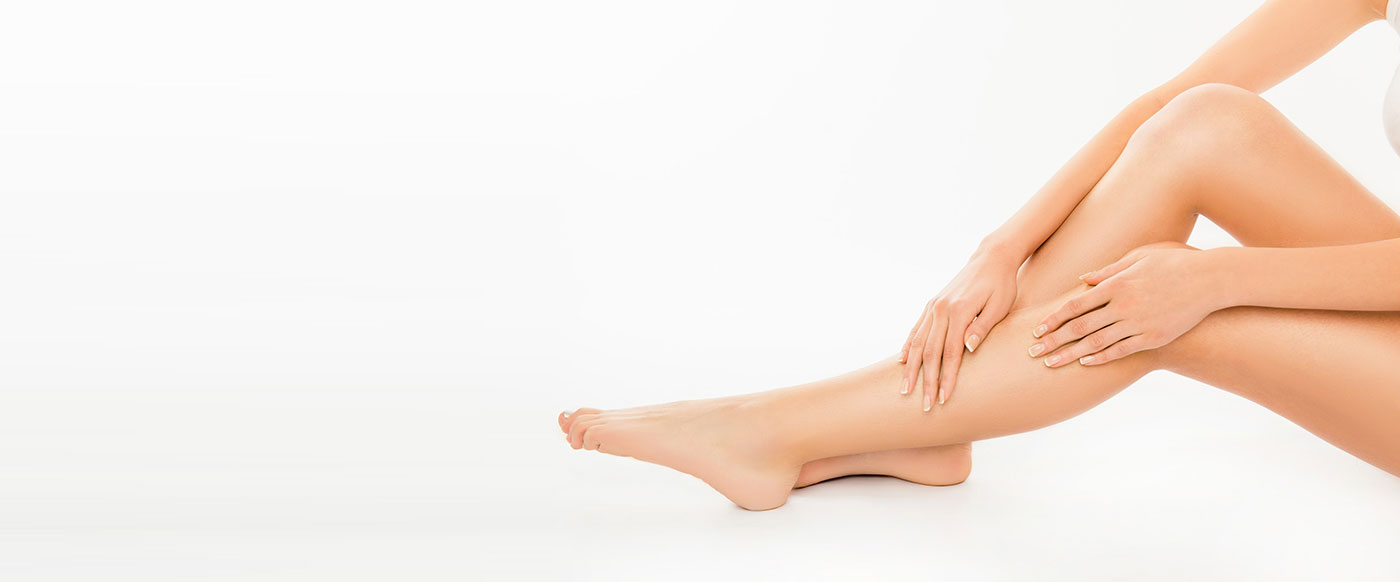
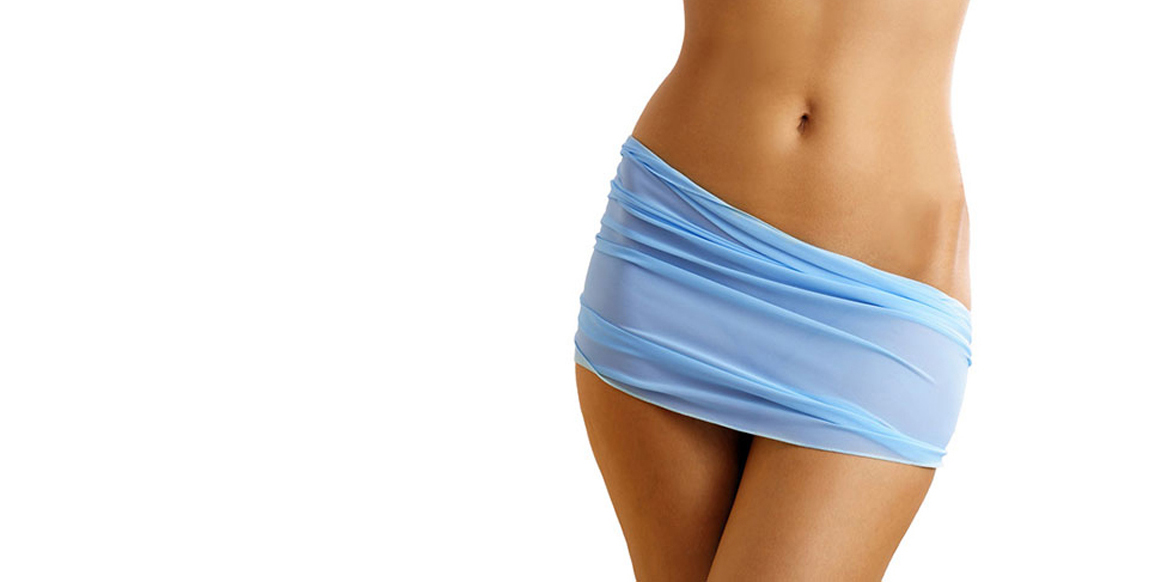
Modify carousel - Increase the height - Change the pictures - Delete the button

diff --git a/index.html b/index.html
@@ -135,7 +135,7 @@
   </div>
     <!-- Carousel
     ================================================== -->
-    <div id="myCarousel" class="carousel slide" data-ride="carousel" data-interval="3000">
+    <div id="myCarousel" class="carousel slide" data-ride="carousel" data-interval="5000">
       <!-- Indicators -->
       <ol class="carousel-indicators">
         <li data-target="#myCarousel" data-slide-to="0" class="active"></li>
@@ -148,9 +148,8 @@
           <img class="first-slide" src="assets/images/our_slide1.jpg" alt="First slide">
           <div class="container">
             <div class="carousel-caption">
-              <h1 style="color: #fff">Feel More Like Your Younger, Vital, Sensual Self.</h1>
+              <h1>Feel More Like Your Younger, Vital, Sensual Self.</h1>
               <p>Nobhills Medical &amp Aesthetics is proud to be the first medical office in San Francisco Bay Area to offer the latest breakthrough therapy in laser vaginal rejunivation.</p>
-              <p><a class="btn btn-lg btn-primary" href="#" role="button">Learn More</a></p>
             </div>
           </div>
         </div>
@@ -160,7 +159,6 @@
             <div class="carousel-caption">
               <h1>Feel younger looking skin.</h1>
               <p>Forever Young BBL is a revolutionary laser treatment that sends light energy deep into the skin to boost your body's natural ability to fight aging.</p>
-              <p><a class="btn btn-lg btn-primary" href="#" role="button">Learn more</a></p>
             </div>
           </div>
         </div>
@@ -170,17 +168,15 @@
             <div class="carousel-caption">
               <h1>See a slimmer you.</h1>
               <p>CoolSculpting is an innobative, non-invasive way to contour your body by freezing unwaterd fat away.</p>
-              <p><a class="btn btn-lg btn-primary" href="#" role="button">Learn More</a></p>
             </div>
           </div>
         </div>
         <div class="item">
-          <img class="fourth-slide" src="assets/images/slide8-sciton-halo.jpg" alt="Third slide">
+          <img class="fourth-slide" src="assets/images/our_slide4.jpg" alt="Third slide">
           <div class="container">
             <div class="carousel-caption">
               <h1>Age heathier and live happier with bioTE.</h1>
               <p>BioTE® Hormone Pellet Therapy uses hormones derived from natural plant sources to replicate the body’s normal hormonal levels.</p>
-              <p><a class="btn btn-lg btn-primary" href="#" role="button">Learn More</a></p>
             </div>
           </div>
         </div>

diff --git a/assets/css/carousel.css b/assets/css/carousel.css
@@ -39,7 +39,7 @@ body {
 
 /* Carousel base class */
 .carousel {
-  height: 500px;
+  height: 750px;
   margin-bottom: 60px;
 }
 /* Since positioning the image, we need to help out the caption */
@@ -49,7 +49,7 @@ body {
 
 /* Declare heights because of positioning of img element */
 .carousel .item {
-  height: 500px;
+  height: 750px;
   background-color: #777;
 }
 .carousel-inner > .item > img {
@@ -57,7 +57,7 @@ body {
   top: 0;
   left: 0;
   min-width: 100%;
-  height: 500px;
+  height: 750px;
 }
 
 

diff --git a/assets/css/styles.css b/assets/css/styles.css
@@ -273,8 +273,8 @@ body {
 
 .carousel-caption {
 	text-align: left;
-	left: 60px;
-	right: 50%;
+	left: 100px;
+	right: 60%;
 	top: 60px;
 	bottom: 0px;
 	padding-top: 0px;
